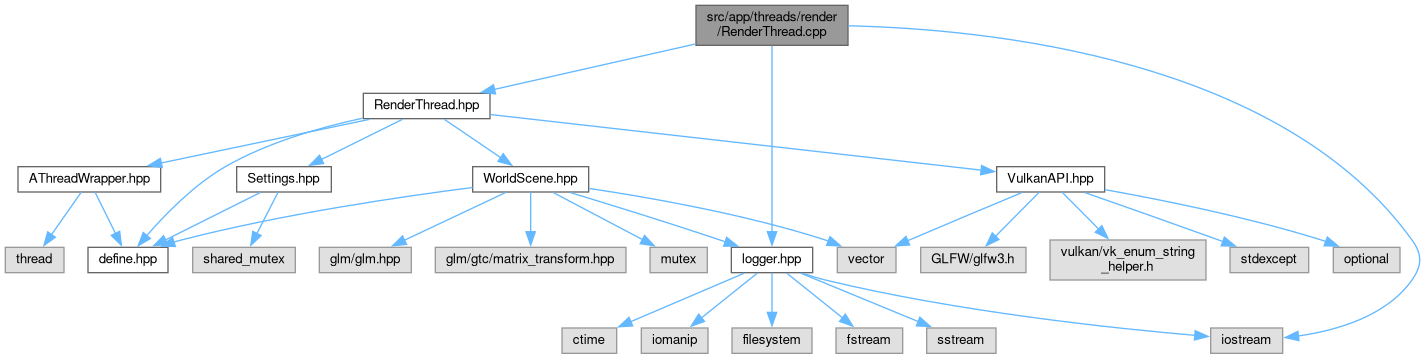
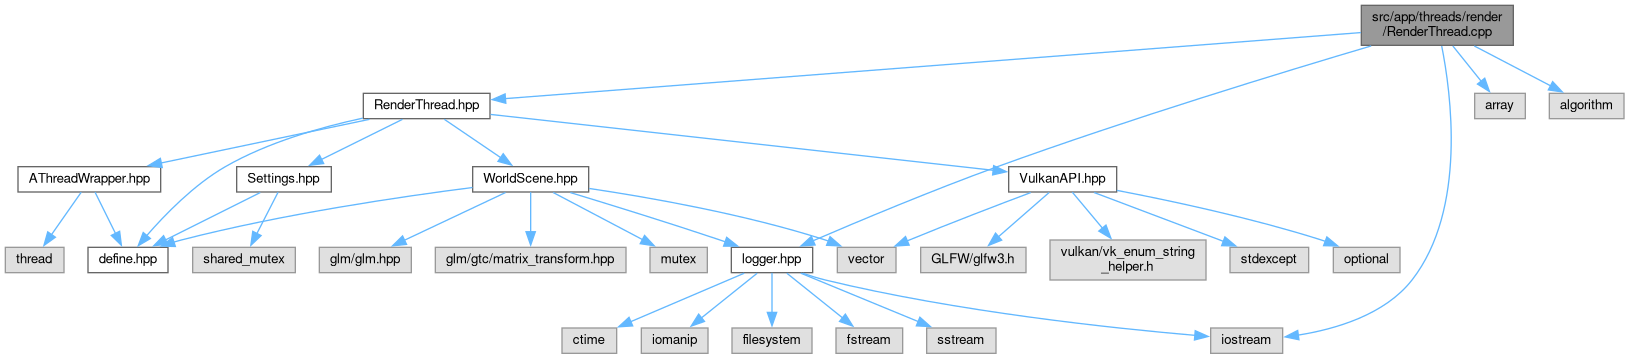
deploy: 920f2c3e76af47bdf64487e6b0525a4d961cf641

diff --git a/WorldScene_8hpp_source.html b/WorldScene_8hpp_source.html
@@ -243,20 +243,20 @@ $(document).ready(function(){initNavTree('WorldScene_8hpp_source.html',''); init
 <div class="line"><a id="l00219" name="l00219"></a><span class="lineno">  219</span>};</div>
 <div class="ttc" id="aclassWorldScene_1_1Camera_html"><div class="ttname"><a href="classWorldScene_1_1Camera.html">WorldScene::Camera</a></div><div class="ttdef"><b>Definition:</b> WorldScene.hpp:70</div></div>
 <div class="ttc" id="aclassWorldScene_1_1Camera_html_a125975d67492eaa19fbadeef068518fd"><div class="ttname"><a href="classWorldScene_1_1Camera.html#a125975d67492eaa19fbadeef068518fd">WorldScene::Camera::operator=</a></div><div class="ttdeci">Camera &amp; operator=(Camera &amp;&amp;camera)=delete</div></div>
-<div class="ttc" id="aclassWorldScene_1_1Camera_html_a5afa21c618a7a6445a5794a710095a05"><div class="ttname"><a href="classWorldScene_1_1Camera.html#a5afa21c618a7a6445a5794a710095a05">WorldScene::Camera::moveDirection</a></div><div class="ttdeci">void moveDirection(float x_offset, float y_offset)</div><div class="ttdoc">Move the camera rotation from the cursor movement.</div><div class="ttdef"><b>Definition:</b> WorldScene.cpp:75</div></div>
-<div class="ttc" id="aclassWorldScene_1_1Camera_html_a6f78c8251d703dcd1b4d9cbd81e112d9"><div class="ttname"><a href="classWorldScene_1_1Camera.html#a6f78c8251d703dcd1b4d9cbd81e112d9">WorldScene::Camera::getViewMatrix</a></div><div class="ttdeci">glm::mat4 getViewMatrix() const</div><div class="ttdoc">Get the view matrix of the camera.</div><div class="ttdef"><b>Definition:</b> WorldScene.cpp:37</div></div>
+<div class="ttc" id="aclassWorldScene_1_1Camera_html_a5afa21c618a7a6445a5794a710095a05"><div class="ttname"><a href="classWorldScene_1_1Camera.html#a5afa21c618a7a6445a5794a710095a05">WorldScene::Camera::moveDirection</a></div><div class="ttdeci">void moveDirection(float x_offset, float y_offset)</div><div class="ttdoc">Move the camera rotation from the cursor movement.</div><div class="ttdef"><b>Definition:</b> WorldScene.cpp:77</div></div>
+<div class="ttc" id="aclassWorldScene_1_1Camera_html_a6f78c8251d703dcd1b4d9cbd81e112d9"><div class="ttname"><a href="classWorldScene_1_1Camera.html#a6f78c8251d703dcd1b4d9cbd81e112d9">WorldScene::Camera::getViewMatrix</a></div><div class="ttdeci">glm::mat4 getViewMatrix() const</div><div class="ttdoc">Get the view matrix of the camera.</div><div class="ttdef"><b>Definition:</b> WorldScene.cpp:39</div></div>
 <div class="ttc" id="aclassWorldScene_1_1Camera_html_a72909fd1fbd89f38e9f37259b420b413"><div class="ttname"><a href="classWorldScene_1_1Camera.html#a72909fd1fbd89f38e9f37259b420b413">WorldScene::Camera::operator=</a></div><div class="ttdeci">Camera &amp; operator=(Camera &amp;camera)=delete</div></div>
-<div class="ttc" id="aclassWorldScene_1_1Camera_html_a746bdef18c9dc1e683337350a3f902b2"><div class="ttname"><a href="classWorldScene_1_1Camera.html#a746bdef18c9dc1e683337350a3f902b2">WorldScene::Camera::moveForward</a></div><div class="ttdeci">void moveForward(float distance)</div><div class="ttdoc">Move the camera forward/backward on the xz plane.</div><div class="ttdef"><b>Definition:</b> WorldScene.cpp:49</div></div>
+<div class="ttc" id="aclassWorldScene_1_1Camera_html_a746bdef18c9dc1e683337350a3f902b2"><div class="ttname"><a href="classWorldScene_1_1Camera.html#a746bdef18c9dc1e683337350a3f902b2">WorldScene::Camera::moveForward</a></div><div class="ttdeci">void moveForward(float distance)</div><div class="ttdoc">Move the camera forward/backward on the xz plane.</div><div class="ttdef"><b>Definition:</b> WorldScene.cpp:51</div></div>
 <div class="ttc" id="aclassWorldScene_1_1Camera_html_a78fab9922b38df0f9e06407d947022ec"><div class="ttname"><a href="classWorldScene_1_1Camera.html#a78fab9922b38df0f9e06407d947022ec">WorldScene::Camera::Camera</a></div><div class="ttdeci">Camera()=default</div></div>
-<div class="ttc" id="aclassWorldScene_1_1Camera_html_a79345bcbd88424510b9d2ff9deb7d6c1"><div class="ttname"><a href="classWorldScene_1_1Camera.html#a79345bcbd88424510b9d2ff9deb7d6c1">WorldScene::Camera::moveUp</a></div><div class="ttdeci">void moveUp(float distance)</div><div class="ttdoc">Move the camera up/down on the y axis.</div><div class="ttdef"><b>Definition:</b> WorldScene.cpp:61</div></div>
+<div class="ttc" id="aclassWorldScene_1_1Camera_html_a79345bcbd88424510b9d2ff9deb7d6c1"><div class="ttname"><a href="classWorldScene_1_1Camera.html#a79345bcbd88424510b9d2ff9deb7d6c1">WorldScene::Camera::moveUp</a></div><div class="ttdeci">void moveUp(float distance)</div><div class="ttdoc">Move the camera up/down on the y axis.</div><div class="ttdef"><b>Definition:</b> WorldScene.cpp:63</div></div>
 <div class="ttc" id="aclassWorldScene_1_1Camera_html_a89c12746f76363b6ffc0d29ba4f13147"><div class="ttname"><a href="classWorldScene_1_1Camera.html#a89c12746f76363b6ffc0d29ba4f13147">WorldScene::Camera::~Camera</a></div><div class="ttdeci">~Camera()=default</div></div>
 <div class="ttc" id="aclassWorldScene_1_1Camera_html_a94acdd6a7d45ba6c7d563d90bfc90bb2"><div class="ttname"><a href="classWorldScene_1_1Camera.html#a94acdd6a7d45ba6c7d563d90bfc90bb2">WorldScene::Camera::Camera</a></div><div class="ttdeci">Camera(Camera &amp;&amp;camera)=delete</div></div>
 <div class="ttc" id="aclassWorldScene_1_1Camera_html_aa234eb78a5165b05d6c754939e9d6d51"><div class="ttname"><a href="classWorldScene_1_1Camera.html#aa234eb78a5165b05d6c754939e9d6d51">WorldScene::Camera::Camera</a></div><div class="ttdeci">Camera(Camera &amp;camera)=delete</div></div>
-<div class="ttc" id="aclassWorldScene_1_1Camera_html_ab88c46b90986ea4c977fee8916c651f7"><div class="ttname"><a href="classWorldScene_1_1Camera.html#ab88c46b90986ea4c977fee8916c651f7">WorldScene::Camera::moveRight</a></div><div class="ttdeci">void moveRight(float distance)</div><div class="ttdoc">Move the camera right/left on the xz plane.</div><div class="ttdef"><b>Definition:</b> WorldScene.cpp:55</div></div>
-<div class="ttc" id="aclassWorldScene_1_1Camera_html_abbcb4a82584f2e443144ec2a99f319fc"><div class="ttname"><a href="classWorldScene_1_1Camera.html#abbcb4a82584f2e443144ec2a99f319fc">WorldScene::Camera::setPosition</a></div><div class="ttdeci">void setPosition(const glm::vec3 &amp;position)</div><div class="ttdoc">Set the position of the camera.</div><div class="ttdef"><b>Definition:</b> WorldScene.cpp:84</div></div>
-<div class="ttc" id="aclassWorldScene_1_1Camera_html_ae42fd7538d38ad77fac78d260427a8ff"><div class="ttname"><a href="classWorldScene_1_1Camera.html#ae42fd7538d38ad77fac78d260427a8ff">WorldScene::Camera::getProjectionMatrix</a></div><div class="ttdeci">glm::mat4 getProjectionMatrix(float aspect_ratio) const</div><div class="ttdoc">Get the projection matrix of the camera.</div><div class="ttdef"><b>Definition:</b> WorldScene.cpp:43</div></div>
-<div class="ttc" id="aclassWorldScene_1_1Camera_html_ae98c060b2fbbbb2c8f106878d6c8f7a0"><div class="ttname"><a href="classWorldScene_1_1Camera.html#ae98c060b2fbbbb2c8f106878d6c8f7a0">WorldScene::Camera::movePosition</a></div><div class="ttdeci">void movePosition(const glm::vec3 &amp;move)</div><div class="ttdoc">Move the camera with a vector. x = right, y = up, z = forward.</div><div class="ttdef"><b>Definition:</b> WorldScene.cpp:67</div></div>
-<div class="ttc" id="aclassWorldScene_1_1Camera_html_aea31563228100aab4ab8da71df2fb511"><div class="ttname"><a href="classWorldScene_1_1Camera.html#aea31563228100aab4ab8da71df2fb511">WorldScene::Camera::lookAt</a></div><div class="ttdeci">void lookAt(const glm::vec3 &amp;target)</div><div class="ttdoc">Set the pitch and yaw of the camera to look at a target.</div><div class="ttdef"><b>Definition:</b> WorldScene.cpp:90</div></div>
+<div class="ttc" id="aclassWorldScene_1_1Camera_html_ab88c46b90986ea4c977fee8916c651f7"><div class="ttname"><a href="classWorldScene_1_1Camera.html#ab88c46b90986ea4c977fee8916c651f7">WorldScene::Camera::moveRight</a></div><div class="ttdeci">void moveRight(float distance)</div><div class="ttdoc">Move the camera right/left on the xz plane.</div><div class="ttdef"><b>Definition:</b> WorldScene.cpp:57</div></div>
+<div class="ttc" id="aclassWorldScene_1_1Camera_html_abbcb4a82584f2e443144ec2a99f319fc"><div class="ttname"><a href="classWorldScene_1_1Camera.html#abbcb4a82584f2e443144ec2a99f319fc">WorldScene::Camera::setPosition</a></div><div class="ttdeci">void setPosition(const glm::vec3 &amp;position)</div><div class="ttdoc">Set the position of the camera.</div><div class="ttdef"><b>Definition:</b> WorldScene.cpp:86</div></div>
+<div class="ttc" id="aclassWorldScene_1_1Camera_html_ae42fd7538d38ad77fac78d260427a8ff"><div class="ttname"><a href="classWorldScene_1_1Camera.html#ae42fd7538d38ad77fac78d260427a8ff">WorldScene::Camera::getProjectionMatrix</a></div><div class="ttdeci">glm::mat4 getProjectionMatrix(float aspect_ratio) const</div><div class="ttdoc">Get the projection matrix of the camera.</div><div class="ttdef"><b>Definition:</b> WorldScene.cpp:45</div></div>
+<div class="ttc" id="aclassWorldScene_1_1Camera_html_ae98c060b2fbbbb2c8f106878d6c8f7a0"><div class="ttname"><a href="classWorldScene_1_1Camera.html#ae98c060b2fbbbb2c8f106878d6c8f7a0">WorldScene::Camera::movePosition</a></div><div class="ttdeci">void movePosition(const glm::vec3 &amp;move)</div><div class="ttdoc">Move the camera with a vector. x = right, y = up, z = forward.</div><div class="ttdef"><b>Definition:</b> WorldScene.cpp:69</div></div>
+<div class="ttc" id="aclassWorldScene_1_1Camera_html_aea31563228100aab4ab8da71df2fb511"><div class="ttname"><a href="classWorldScene_1_1Camera.html#aea31563228100aab4ab8da71df2fb511">WorldScene::Camera::lookAt</a></div><div class="ttdeci">void lookAt(const glm::vec3 &amp;target)</div><div class="ttdoc">Set the pitch and yaw of the camera to look at a target.</div><div class="ttdef"><b>Definition:</b> WorldScene.cpp:92</div></div>
 <div class="ttc" id="aclassWorldScene_1_1Transform_html"><div class="ttname"><a href="classWorldScene_1_1Transform.html">WorldScene::Transform</a></div><div class="ttdef"><b>Definition:</b> WorldScene.hpp:24</div></div>
 <div class="ttc" id="aclassWorldScene_1_1Transform_html_a25c42b8296eb24b147b51442a68671ed"><div class="ttname"><a href="classWorldScene_1_1Transform.html#a25c42b8296eb24b147b51442a68671ed">WorldScene::Transform::Transform</a></div><div class="ttdeci">Transform(const glm::vec3 &amp;position=glm::vec3(0.0f, 0.0f, 0.0f), const glm::vec3 &amp;rotation=glm::vec3(0.0f, 0.0f, 0.0f), const glm::vec3 &amp;scale=glm::vec3(1.0f, 1.0f, 1.0f))</div><div class="ttdef"><b>Definition:</b> WorldScene.hpp:26</div></div>
 <div class="ttc" id="aclassWorldScene_1_1Transform_html_a521c9e222875de6fffeae597ecafafc3"><div class="ttname"><a href="classWorldScene_1_1Transform.html#a521c9e222875de6fffeae597ecafafc3">WorldScene::Transform::scale</a></div><div class="ttdeci">const glm::vec3 &amp; scale() const</div><div class="ttdef"><b>Definition:</b> WorldScene.hpp:42</div></div>
@@ -267,15 +267,15 @@ $(document).ready(function(){initNavTree('WorldScene_8hpp_source.html',''); init
 <div class="ttc" id="aclassWorldScene_1_1Transform_html_a98b67cb3eea5e74ac801c2daecad4d6e"><div class="ttname"><a href="classWorldScene_1_1Transform.html#a98b67cb3eea5e74ac801c2daecad4d6e">WorldScene::Transform::model</a></div><div class="ttdeci">glm::mat4 model() const</div><div class="ttdef"><b>Definition:</b> WorldScene.hpp:44</div></div>
 <div class="ttc" id="aclassWorldScene_1_1Transform_html_ab27580e8cf5b61590e405a38ea84396b"><div class="ttname"><a href="classWorldScene_1_1Transform.html#ab27580e8cf5b61590e405a38ea84396b">WorldScene::Transform::scale</a></div><div class="ttdeci">glm::vec3 &amp; scale()</div><div class="ttdef"><b>Definition:</b> WorldScene.hpp:41</div></div>
 <div class="ttc" id="aclassWorldScene_html"><div class="ttname"><a href="classWorldScene.html">WorldScene</a></div><div class="ttdoc">Class to hold the world scene. The instance of this class will be accessed by multiple threads so it ...</div><div class="ttdef"><b>Definition:</b> WorldScene.hpp:19</div></div>
-<div class="ttc" id="aclassWorldScene_html_a31291b76be40ac58d2a7fbebdf7963e8"><div class="ttname"><a href="classWorldScene.html#a31291b76be40ac58d2a7fbebdf7963e8">WorldScene::getMeshRenderData</a></div><div class="ttdeci">std::vector&lt; MeshRenderData &gt; getMeshRenderData() const</div><div class="ttdoc">Function to get the mesh data.</div><div class="ttdef"><b>Definition:</b> WorldScene.cpp:29</div></div>
+<div class="ttc" id="aclassWorldScene_html_a31291b76be40ac58d2a7fbebdf7963e8"><div class="ttname"><a href="classWorldScene.html#a31291b76be40ac58d2a7fbebdf7963e8">WorldScene::getMeshRenderData</a></div><div class="ttdeci">std::vector&lt; MeshRenderData &gt; getMeshRenderData() const</div><div class="ttdoc">Function to get the mesh data.</div><div class="ttdef"><b>Definition:</b> WorldScene.cpp:31</div></div>
 <div class="ttc" id="aclassWorldScene_html_a31e767d0a4e116e712a3ff9432b3b59b"><div class="ttname"><a href="classWorldScene.html#a31e767d0a4e116e712a3ff9432b3b59b">WorldScene::WorldScene</a></div><div class="ttdeci">WorldScene(WorldScene &amp;scene)=delete</div></div>
 <div class="ttc" id="aclassWorldScene_html_a5066dc9503636b3dce03f2e1a0342c0e"><div class="ttname"><a href="classWorldScene.html#a5066dc9503636b3dce03f2e1a0342c0e">WorldScene::WorldScene</a></div><div class="ttdeci">WorldScene(WorldScene &amp;&amp;scene)=delete</div></div>
 <div class="ttc" id="aclassWorldScene_html_a71505cd83b2a2e9735a71cee2e353de9"><div class="ttname"><a href="classWorldScene.html#a71505cd83b2a2e9735a71cee2e353de9">WorldScene::camera</a></div><div class="ttdeci">Camera &amp; camera()</div><div class="ttdoc">Function to get the camera.</div><div class="ttdef"><b>Definition:</b> WorldScene.hpp:203</div></div>
-<div class="ttc" id="aclassWorldScene_html_a86c5a4b83213d28ce5c62eba9d35da64"><div class="ttname"><a href="classWorldScene.html#a86c5a4b83213d28ce5c62eba9d35da64">WorldScene::WorldScene</a></div><div class="ttdeci">WorldScene()</div><div class="ttdoc">Construct a new WorldScene object.</div><div class="ttdef"><b>Definition:</b> WorldScene.cpp:4</div></div>
-<div class="ttc" id="aclassWorldScene_html_a8bcfa949f6e093c9794ace6f199742c0"><div class="ttname"><a href="classWorldScene.html#a8bcfa949f6e093c9794ace6f199742c0">WorldScene::removeMesh</a></div><div class="ttdeci">void removeMesh(uint64_t meshID)</div><div class="ttdoc">Function to remove a mesh from the scene.</div><div class="ttdef"><b>Definition:</b> WorldScene.cpp:21</div></div>
-<div class="ttc" id="aclassWorldScene_html_a96919a2cba5b6b6e544cc9b749e13ac8"><div class="ttname"><a href="classWorldScene.html#a96919a2cba5b6b6e544cc9b749e13ac8">WorldScene::~WorldScene</a></div><div class="ttdeci">~WorldScene()</div><div class="ttdoc">Destroy the WorldScene object.</div><div class="ttdef"><b>Definition:</b> WorldScene.cpp:8</div></div>
+<div class="ttc" id="aclassWorldScene_html_a86c5a4b83213d28ce5c62eba9d35da64"><div class="ttname"><a href="classWorldScene.html#a86c5a4b83213d28ce5c62eba9d35da64">WorldScene::WorldScene</a></div><div class="ttdeci">WorldScene()</div><div class="ttdoc">Construct a new WorldScene object.</div><div class="ttdef"><b>Definition:</b> WorldScene.cpp:6</div></div>
+<div class="ttc" id="aclassWorldScene_html_a8bcfa949f6e093c9794ace6f199742c0"><div class="ttname"><a href="classWorldScene.html#a8bcfa949f6e093c9794ace6f199742c0">WorldScene::removeMesh</a></div><div class="ttdeci">void removeMesh(uint64_t meshID)</div><div class="ttdoc">Function to remove a mesh from the scene.</div><div class="ttdef"><b>Definition:</b> WorldScene.cpp:23</div></div>
+<div class="ttc" id="aclassWorldScene_html_a96919a2cba5b6b6e544cc9b749e13ac8"><div class="ttname"><a href="classWorldScene.html#a96919a2cba5b6b6e544cc9b749e13ac8">WorldScene::~WorldScene</a></div><div class="ttdeci">~WorldScene()</div><div class="ttdoc">Destroy the WorldScene object.</div><div class="ttdef"><b>Definition:</b> WorldScene.cpp:10</div></div>
 <div class="ttc" id="aclassWorldScene_html_ab1ef2cb8d38726a515ec3042619b0ab5"><div class="ttname"><a href="classWorldScene.html#ab1ef2cb8d38726a515ec3042619b0ab5">WorldScene::operator=</a></div><div class="ttdeci">WorldScene &amp; operator=(WorldScene &amp;&amp;scene)=delete</div></div>
-<div class="ttc" id="aclassWorldScene_html_abb2f5adfccf441133d0109895adb44a0"><div class="ttname"><a href="classWorldScene.html#abb2f5adfccf441133d0109895adb44a0">WorldScene::addMeshData</a></div><div class="ttdeci">void addMeshData(uint64_t meshID, const Transform &amp;transform)</div><div class="ttdoc">Function to add a mesh to the scene.</div><div class="ttdef"><b>Definition:</b> WorldScene.cpp:12</div></div>
+<div class="ttc" id="aclassWorldScene_html_abb2f5adfccf441133d0109895adb44a0"><div class="ttname"><a href="classWorldScene.html#abb2f5adfccf441133d0109895adb44a0">WorldScene::addMeshData</a></div><div class="ttdeci">void addMeshData(uint64_t meshID, const Transform &amp;transform)</div><div class="ttdoc">Function to add a mesh to the scene.</div><div class="ttdef"><b>Definition:</b> WorldScene.cpp:14</div></div>
 <div class="ttc" id="aclassWorldScene_html_ac514b789cf4d4195c3b0f0852a1a2b7b"><div class="ttname"><a href="classWorldScene.html#ac514b789cf4d4195c3b0f0852a1a2b7b">WorldScene::operator=</a></div><div class="ttdeci">WorldScene &amp; operator=(WorldScene &amp;scene)=delete</div></div>
 <div class="ttc" id="aclassWorldScene_html_ad5100ff8f3edb4b7e9cbf65240169f05"><div class="ttname"><a href="classWorldScene.html#ad5100ff8f3edb4b7e9cbf65240169f05">WorldScene::camera</a></div><div class="ttdeci">const Camera &amp; camera() const</div><div class="ttdoc">Function const to get the camera.</div><div class="ttdef"><b>Definition:</b> WorldScene.hpp:211</div></div>
 <div class="ttc" id="adefine_8hpp_html"><div class="ttname"><a href="define_8hpp.html">define.hpp</a></div></div>

diff --git a/VulkanAPI_8hpp_source.html b/VulkanAPI_8hpp_source.html
@@ -331,8 +331,8 @@ $(document).ready(function(){initNavTree('VulkanAPI_8hpp_source.html',''); initR
 <div class="ttc" id="aclassVulkanAPI_html_a3a845af151ddc322c31030ae33a7725f"><div class="ttname"><a href="classVulkanAPI.html#a3a845af151ddc322c31030ae33a7725f">VulkanAPI::max_frames_in_flight</a></div><div class="ttdeci">const int max_frames_in_flight</div><div class="ttdef"><b>Definition:</b> VulkanAPI.hpp:119</div></div>
 <div class="ttc" id="aclassVulkanAPI_html_a3d2e2ba32d12d350853d6de00770eab9"><div class="ttname"><a href="classVulkanAPI.html#a3d2e2ba32d12d350853d6de00770eab9">VulkanAPI::graphics_queue</a></div><div class="ttdeci">VkQueue graphics_queue</div><div class="ttdef"><b>Definition:</b> VulkanAPI.hpp:86</div></div>
 <div class="ttc" id="aclassVulkanAPI_html_a3f4eb2dfd0c916f2c2d5cd32a11d1805"><div class="ttname"><a href="classVulkanAPI.html#a3f4eb2dfd0c916f2c2d5cd32a11d1805">VulkanAPI::queue_family_indices</a></div><div class="ttdeci">QueueFamilyIndices queue_family_indices</div><div class="ttdef"><b>Definition:</b> VulkanAPI.hpp:88</div></div>
-<div class="ttc" id="aclassVulkanAPI_html_a415e09717d3d71f6cd288b926b8797bd"><div class="ttname"><a href="classVulkanAPI.html#a415e09717d3d71f6cd288b926b8797bd">VulkanAPI::clearPixels</a></div><div class="ttdeci">void clearPixels()</div><div class="ttdef"><b>Definition:</b> VulkanAPI.cpp:882</div></div>
-<div class="ttc" id="aclassVulkanAPI_html_a48f6b428d99ea240a6ebdc1ad4dba0cd"><div class="ttname"><a href="classVulkanAPI.html#a48f6b428d99ea240a6ebdc1ad4dba0cd">VulkanAPI::transitionImageLayout</a></div><div class="ttdeci">void transitionImageLayout(VkImage image, VkImageLayout oldLayout, VkImageLayout newLayout, VkImageAspectFlags aspectMask, uint32_t mipLevels, VkAccessFlags srcAccessMask, VkAccessFlags dstAccessMask, VkPipelineStageFlags srcStageMask, VkPipelineStageFlags dstStageMask)</div><div class="ttdef"><b>Definition:</b> VulkanAPI.cpp:995</div></div>
+<div class="ttc" id="aclassVulkanAPI_html_a415e09717d3d71f6cd288b926b8797bd"><div class="ttname"><a href="classVulkanAPI.html#a415e09717d3d71f6cd288b926b8797bd">VulkanAPI::clearPixels</a></div><div class="ttdeci">void clearPixels()</div><div class="ttdef"><b>Definition:</b> VulkanAPI.cpp:883</div></div>
+<div class="ttc" id="aclassVulkanAPI_html_a48f6b428d99ea240a6ebdc1ad4dba0cd"><div class="ttname"><a href="classVulkanAPI.html#a48f6b428d99ea240a6ebdc1ad4dba0cd">VulkanAPI::transitionImageLayout</a></div><div class="ttdeci">void transitionImageLayout(VkImage image, VkImageLayout oldLayout, VkImageLayout newLayout, VkImageAspectFlags aspectMask, uint32_t mipLevels, VkAccessFlags srcAccessMask, VkAccessFlags dstAccessMask, VkPipelineStageFlags srcStageMask, VkPipelineStageFlags dstStageMask)</div><div class="ttdef"><b>Definition:</b> VulkanAPI.cpp:996</div></div>
 <div class="ttc" id="aclassVulkanAPI_html_a493c029a5d6e84944b10aba3e127f8d2"><div class="ttname"><a href="classVulkanAPI.html#a493c029a5d6e84944b10aba3e127f8d2">VulkanAPI::swap_chain_extent</a></div><div class="ttdeci">VkExtent2D swap_chain_extent</div><div class="ttdef"><b>Definition:</b> VulkanAPI.hpp:93</div></div>
 <div class="ttc" id="aclassVulkanAPI_html_a4d925a6136031c943dcf6817afdd5972"><div class="ttname"><a href="classVulkanAPI.html#a4d925a6136031c943dcf6817afdd5972">VulkanAPI::swap_chain_image_format</a></div><div class="ttdeci">VkFormat swap_chain_image_format</div><div class="ttdef"><b>Definition:</b> VulkanAPI.hpp:92</div></div>
 <div class="ttc" id="aclassVulkanAPI_html_a512711a2bf5f70765279aca5f1e6c5dd"><div class="ttname"><a href="classVulkanAPI.html#a512711a2bf5f70765279aca5f1e6c5dd">VulkanAPI::command_pool</a></div><div class="ttdeci">VkCommandPool command_pool</div><div class="ttdef"><b>Definition:</b> VulkanAPI.hpp:98</div></div>
@@ -351,16 +351,16 @@ $(document).ready(function(){initNavTree('VulkanAPI_8hpp_source.html',''); initR
 <div class="ttc" id="aclassVulkanAPI_html_a9143e4841f51111ccfbb5fe86db9d17e"><div class="ttname"><a href="classVulkanAPI.html#a9143e4841f51111ccfbb5fe86db9d17e">VulkanAPI::height</a></div><div class="ttdeci">uint32_t height() const</div><div class="ttdef"><b>Definition:</b> VulkanAPI.hpp:72</div></div>
 <div class="ttc" id="aclassVulkanAPI_html_aa0446488c89a7a21f749f5984272385e"><div class="ttname"><a href="classVulkanAPI.html#aa0446488c89a7a21f749f5984272385e">VulkanAPI::pipeline_layout</a></div><div class="ttdeci">VkPipelineLayout pipeline_layout</div><div class="ttdef"><b>Definition:</b> VulkanAPI.hpp:95</div></div>
 <div class="ttc" id="aclassVulkanAPI_html_aaeca4e5455f3982bac572f63af925855"><div class="ttname"><a href="classVulkanAPI.html#aaeca4e5455f3982bac572f63af925855">VulkanAPI::operator=</a></div><div class="ttdeci">VulkanAPI &amp; operator=(VulkanAPI &amp;&amp;)=delete</div></div>
-<div class="ttc" id="aclassVulkanAPI_html_ab8984029ac369dcc8d76ac09decf8250"><div class="ttname"><a href="classVulkanAPI.html#ab8984029ac369dcc8d76ac09decf8250">VulkanAPI::putPixel</a></div><div class="ttdeci">void putPixel(uint32_t x, uint32_t y, uint8_t r, uint8_t g, uint8_t b, uint8_t a=255)</div><div class="ttdef"><b>Definition:</b> VulkanAPI.cpp:887</div></div>
+<div class="ttc" id="aclassVulkanAPI_html_ab8984029ac369dcc8d76ac09decf8250"><div class="ttname"><a href="classVulkanAPI.html#ab8984029ac369dcc8d76ac09decf8250">VulkanAPI::putPixel</a></div><div class="ttdeci">void putPixel(uint32_t x, uint32_t y, uint8_t r, uint8_t g, uint8_t b, uint8_t a=255)</div><div class="ttdef"><b>Definition:</b> VulkanAPI.cpp:888</div></div>
 <div class="ttc" id="aclassVulkanAPI_html_ac53aef29bbc7afd5cef325d4d608f669"><div class="ttname"><a href="classVulkanAPI.html#ac53aef29bbc7afd5cef325d4d608f669">VulkanAPI::device</a></div><div class="ttdeci">VkDevice device</div><div class="ttdef"><b>Definition:</b> VulkanAPI.hpp:85</div></div>
-<div class="ttc" id="aclassVulkanAPI_html_acb1a97c9af39c7527966e3f8eb5f7581"><div class="ttname"><a href="classVulkanAPI.html#acb1a97c9af39c7527966e3f8eb5f7581">VulkanAPI::recreateSwapChain</a></div><div class="ttdeci">void recreateSwapChain(GLFWwindow *window)</div><div class="ttdef"><b>Definition:</b> VulkanAPI.cpp:489</div></div>
+<div class="ttc" id="aclassVulkanAPI_html_acb1a97c9af39c7527966e3f8eb5f7581"><div class="ttname"><a href="classVulkanAPI.html#acb1a97c9af39c7527966e3f8eb5f7581">VulkanAPI::recreateSwapChain</a></div><div class="ttdeci">void recreateSwapChain(GLFWwindow *window)</div><div class="ttdef"><b>Definition:</b> VulkanAPI.cpp:490</div></div>
 <div class="ttc" id="aclassVulkanAPI_html_acbc18157e133b2d4ad681f060d44c742"><div class="ttname"><a href="classVulkanAPI.html#acbc18157e133b2d4ad681f060d44c742">VulkanAPI::instance</a></div><div class="ttdeci">VkInstance instance</div><div class="ttdef"><b>Definition:</b> VulkanAPI.hpp:79</div></div>
 <div class="ttc" id="aclassVulkanAPI_html_acd95a2f7af31d3ccba7de8553aeed384"><div class="ttname"><a href="classVulkanAPI.html#acd95a2f7af31d3ccba7de8553aeed384">VulkanAPI::present_queue</a></div><div class="ttdeci">VkQueue present_queue</div><div class="ttdef"><b>Definition:</b> VulkanAPI.hpp:87</div></div>
 <div class="ttc" id="aclassVulkanAPI_html_ad6577a4ae85f6aa01f3eb4b6228ecc72"><div class="ttname"><a href="classVulkanAPI.html#ad6577a4ae85f6aa01f3eb4b6228ecc72">VulkanAPI::color_attachement_extent</a></div><div class="ttdeci">VkExtent2D color_attachement_extent</div><div class="ttdef"><b>Definition:</b> VulkanAPI.hpp:111</div></div>
 <div class="ttc" id="aclassVulkanAPI_html_aded6afbe797d9e490d44f56c818baa90"><div class="ttname"><a href="classVulkanAPI.html#aded6afbe797d9e490d44f56c818baa90">VulkanAPI::image_available_semaphores</a></div><div class="ttdeci">std::vector&lt; VkSemaphore &gt; image_available_semaphores</div><div class="ttdef"><b>Definition:</b> VulkanAPI.hpp:102</div></div>
 <div class="ttc" id="aclassVulkanAPI_html_aef64369b7f35961d23ea3a9fa6255b2a"><div class="ttname"><a href="classVulkanAPI.html#aef64369b7f35961d23ea3a9fa6255b2a">VulkanAPI::draw_image</a></div><div class="ttdeci">VkImage draw_image</div><div class="ttdef"><b>Definition:</b> VulkanAPI.hpp:113</div></div>
 <div class="ttc" id="aclassVulkanAPI_html_af0178da68566ea2136a91746e686efdf"><div class="ttname"><a href="classVulkanAPI.html#af0178da68566ea2136a91746e686efdf">VulkanAPI::VulkanAPI</a></div><div class="ttdeci">VulkanAPI(VulkanAPI &amp;&amp;)=delete</div></div>
-<div class="ttc" id="aclassVulkanAPI_html_af0fc9d116584aa25c04587c6ac9b43cc"><div class="ttname"><a href="classVulkanAPI.html#af0fc9d116584aa25c04587c6ac9b43cc">VulkanAPI::~VulkanAPI</a></div><div class="ttdeci">~VulkanAPI()</div><div class="ttdef"><b>Definition:</b> VulkanAPI.cpp:28</div></div>
+<div class="ttc" id="aclassVulkanAPI_html_af0fc9d116584aa25c04587c6ac9b43cc"><div class="ttname"><a href="classVulkanAPI.html#af0fc9d116584aa25c04587c6ac9b43cc">VulkanAPI::~VulkanAPI</a></div><div class="ttdeci">~VulkanAPI()</div><div class="ttdef"><b>Definition:</b> VulkanAPI.cpp:29</div></div>
 <div class="ttc" id="aclassVulkanAPI_html_af68a817c10f287c3dee239ac9b4416f5"><div class="ttname"><a href="classVulkanAPI.html#af68a817c10f287c3dee239ac9b4416f5">VulkanAPI::color_attachement_memory</a></div><div class="ttdeci">VkDeviceMemory color_attachement_memory</div><div class="ttdef"><b>Definition:</b> VulkanAPI.hpp:108</div></div>
 <div class="ttc" id="aclassVulkanAPI_html_afe362f2320ed6115d2eb627efed9d530"><div class="ttname"><a href="classVulkanAPI.html#afe362f2320ed6115d2eb627efed9d530">VulkanAPI::surface</a></div><div class="ttdeci">VkSurfaceKHR surface</div><div class="ttdef"><b>Definition:</b> VulkanAPI.hpp:83</div></div>
 <div class="ttc" id="aclassVulkanAPI_html_afee8894b5a16b5ee9f2718b30b5d4d63"><div class="ttname"><a href="classVulkanAPI.html#afee8894b5a16b5ee9f2718b30b5d4d63">VulkanAPI::draw_image_mapped_memory</a></div><div class="ttdeci">void * draw_image_mapped_memory</div><div class="ttdef"><b>Definition:</b> VulkanAPI.hpp:115</div></div>

diff --git a/RenderThread_8hpp_source.html b/RenderThread_8hpp_source.html
@@ -161,7 +161,7 @@ $(document).ready(function(){initNavTree('RenderThread_8hpp_source.html',''); in
 <div class="ttc" id="aclassRenderThread_html_a735f6f69afad2704b0119683ea474a96"><div class="ttname"><a href="classRenderThread.html#a735f6f69afad2704b0119683ea474a96">RenderThread::operator=</a></div><div class="ttdeci">RenderThread &amp; operator=(RenderThread &amp;renderer)=delete</div></div>
 <div class="ttc" id="aclassRenderThread_html_a9b8dfb3f2d80db4e6c4d9009367e8cb1"><div class="ttname"><a href="classRenderThread.html#a9b8dfb3f2d80db4e6c4d9009367e8cb1">RenderThread::RenderThread</a></div><div class="ttdeci">RenderThread(RenderThread &amp;renderer)=delete</div></div>
 <div class="ttc" id="aclassRenderThread_html_aad762f76aa79f3c247731133aeca68b3"><div class="ttname"><a href="classRenderThread.html#aad762f76aa79f3c247731133aeca68b3">RenderThread::operator=</a></div><div class="ttdeci">RenderThread &amp; operator=(RenderThread &amp;&amp;renderer)=delete</div></div>
-<div class="ttc" id="aclassRenderThread_html_ac9a968ad63349a9eb1109d615406afd4"><div class="ttname"><a href="classRenderThread.html#ac9a968ad63349a9eb1109d615406afd4">RenderThread::~RenderThread</a></div><div class="ttdeci">~RenderThread()</div><div class="ttdoc">Destroy the RenderThread object.</div><div class="ttdef"><b>Definition:</b> RenderThread.cpp:18</div></div>
+<div class="ttc" id="aclassRenderThread_html_ac9a968ad63349a9eb1109d615406afd4"><div class="ttname"><a href="classRenderThread.html#ac9a968ad63349a9eb1109d615406afd4">RenderThread::~RenderThread</a></div><div class="ttdeci">~RenderThread()</div><div class="ttdoc">Destroy the RenderThread object.</div><div class="ttdef"><b>Definition:</b> RenderThread.cpp:22</div></div>
 <div class="ttc" id="aclassSettings_html"><div class="ttname"><a href="classSettings.html">Settings</a></div><div class="ttdoc">Class to hold the settings of the application.</div><div class="ttdef"><b>Definition:</b> Settings.hpp:12</div></div>
 <div class="ttc" id="aclassVulkanAPI_html"><div class="ttname"><a href="classVulkanAPI.html">VulkanAPI</a></div><div class="ttdef"><b>Definition:</b> VulkanAPI.hpp:45</div></div>
 <div class="ttc" id="aclassWorldScene_html"><div class="ttname"><a href="classWorldScene.html">WorldScene</a></div><div class="ttdoc">Class to hold the world scene. The instance of this class will be accessed by multiple threads so it ...</div><div class="ttdef"><b>Definition:</b> WorldScene.hpp:19</div></div>

diff --git a/UpdateThread_8hpp_source.html b/UpdateThread_8hpp_source.html
@@ -176,7 +176,7 @@ $(document).ready(function(){initNavTree('UpdateThread_8hpp_source.html',''); in
 <div class="ttc" id="aclassUpdateThread_html"><div class="ttname"><a href="classUpdateThread.html">UpdateThread</a></div><div class="ttdef"><b>Definition:</b> UpdateThread.hpp:12</div></div>
 <div class="ttc" id="aclassUpdateThread_html_a5379199617c6f252e5d850755f887b1f"><div class="ttname"><a href="classUpdateThread.html#a5379199617c6f252e5d850755f887b1f">UpdateThread::operator=</a></div><div class="ttdeci">UpdateThread &amp; operator=(UpdateThread &amp;other)=delete</div></div>
 <div class="ttc" id="aclassUpdateThread_html_a67633683c42a680171e9de4cb55e673b"><div class="ttname"><a href="classUpdateThread.html#a67633683c42a680171e9de4cb55e673b">UpdateThread::UpdateThread</a></div><div class="ttdeci">UpdateThread(UpdateThread &amp;&amp;other)=delete</div></div>
-<div class="ttc" id="aclassUpdateThread_html_a6b0329b5ce1c37b523ca25276d180cbb"><div class="ttname"><a href="classUpdateThread.html#a6b0329b5ce1c37b523ca25276d180cbb">UpdateThread::~UpdateThread</a></div><div class="ttdeci">~UpdateThread()</div><div class="ttdef"><b>Definition:</b> UpdateThread.cpp:19</div></div>
+<div class="ttc" id="aclassUpdateThread_html_a6b0329b5ce1c37b523ca25276d180cbb"><div class="ttname"><a href="classUpdateThread.html#a6b0329b5ce1c37b523ca25276d180cbb">UpdateThread::~UpdateThread</a></div><div class="ttdeci">~UpdateThread()</div><div class="ttdef"><b>Definition:</b> UpdateThread.cpp:20</div></div>
 <div class="ttc" id="aclassUpdateThread_html_abb79f362ecbec1a4c878739bafe974de"><div class="ttname"><a href="classUpdateThread.html#abb79f362ecbec1a4c878739bafe974de">UpdateThread::operator=</a></div><div class="ttdeci">UpdateThread &amp; operator=(UpdateThread &amp;&amp;other)=delete</div></div>
 <div class="ttc" id="aclassUpdateThread_html_ac4c818b0e4646770c22f3f095b251517"><div class="ttname"><a href="classUpdateThread.html#ac4c818b0e4646770c22f3f095b251517">UpdateThread::UpdateThread</a></div><div class="ttdeci">UpdateThread(UpdateThread &amp;other)=delete</div></div>
 <div class="ttc" id="aclassWindow_html"><div class="ttname"><a href="classWindow.html">Window</a></div><div class="ttdef"><b>Definition:</b> window.hpp:11</div></div>

diff --git a/RenderThread_8cpp.html b/RenderThread_8cpp.html
@@ -111,20 +111,24 @@ $(document).ready(function(){initNavTree('RenderThread_8cpp.html',''); initResiz
 <div class="textblock"><code>#include &quot;<a class="el" href="RenderThread_8hpp_source.html">RenderThread.hpp</a>&quot;</code><br />
 <code>#include &quot;<a class="el" href="logger_8hpp_source.html">logger.hpp</a>&quot;</code><br />
 <code>#include &lt;iostream&gt;</code><br />
+<code>#include &lt;array&gt;</code><br />
+<code>#include &lt;algorithm&gt;</code><br />
 </div><div class="textblock"><div class="dynheader">
 Include dependency graph for RenderThread.cpp:</div>
 <div class="dyncontent">
 <div class="center"><img src="RenderThread_8cpp__incl.png" border="0" usemap="#asrc_2app_2threads_2render_2RenderThread_8cpp" alt=""/></div>
 <map name="asrc_2app_2threads_2render_2RenderThread_8cpp" id="asrc_2app_2threads_2render_2RenderThread_8cpp">
-<area shape="rect" title=" " alt="" coords="696,5,848,45"/>
+<area shape="rect" title=" " alt="" coords="1361,5,1513,45"/>
 <area shape="rect" href="RenderThread_8hpp.html" title=" " alt="" coords="363,93,490,119"/>
 <area shape="rect" href="logger_8hpp.html" title=" " alt="" coords="731,247,813,273"/>
 <area shape="rect" title=" " alt="" coords="1211,328,1283,353"/>
+<area shape="rect" title=" " alt="" coords="1475,93,1525,119"/>
+<area shape="rect" title=" " alt="" coords="1549,93,1624,119"/>
 <area shape="rect" href="define_8hpp.html" title=" " alt="" coords="88,247,168,273"/>
 <area shape="rect" href="AThreadWrapper_8hpp.html" title=" " alt="" coords="18,167,161,192"/>
 <area shape="rect" href="WorldScene_8hpp.html" title=" " alt="" coords="473,167,589,192"/>
 <area shape="rect" href="Settings_8hpp.html" title=" " alt="" coords="237,167,331,192"/>
-<area shape="rect" href="VulkanAPI_8hpp.html" title=" " alt="" coords="997,167,1105,192"/>
+<area shape="rect" href="VulkanAPI_8hpp.html" title=" " alt="" coords="1009,167,1117,192"/>
 <area shape="rect" title=" " alt="" coords="5,247,64,273"/>
 <area shape="rect" title=" " alt="" coords="319,247,411,273"/>
 <area shape="rect" title=" " alt="" coords="435,247,626,273"/>

diff --git a/VulkanAPI_8cpp.html b/VulkanAPI_8cpp.html
@@ -112,16 +112,18 @@ $(document).ready(function(){initNavTree('VulkanAPI_8cpp.html',''); initResizabl
 <code>#include &quot;<a class="el" href="logger_8hpp_source.html">logger.hpp</a>&quot;</code><br />
 <code>#include &lt;cstring&gt;</code><br />
 <code>#include &lt;set&gt;</code><br />
+<code>#include &lt;algorithm&gt;</code><br />
 </div><div class="textblock"><div class="dynheader">
 Include dependency graph for VulkanAPI.cpp:</div>
 <div class="dyncontent">
 <div class="center"><img src="VulkanAPI_8cpp__incl.png" border="0" usemap="#asrc_2app_2vulkan_2VulkanAPI_8cpp" alt=""/></div>
 <map name="asrc_2app_2vulkan_2VulkanAPI_8cpp" id="asrc_2app_2vulkan_2VulkanAPI_8cpp">
-<area shape="rect" title=" " alt="" coords="762,5,959,31"/>
+<area shape="rect" title=" " alt="" coords="810,5,1007,31"/>
 <area shape="rect" href="VulkanAPI_8hpp.html" title=" " alt="" coords="347,79,455,104"/>
 <area shape="rect" href="logger_8hpp.html" title=" " alt="" coords="772,79,853,104"/>
 <area shape="rect" title=" " alt="" coords="878,79,939,104"/>
 <area shape="rect" title=" " alt="" coords="963,79,1003,104"/>
+<area shape="rect" title=" " alt="" coords="1027,79,1102,104"/>
 <area shape="rect" title=" " alt="" coords="5,159,111,185"/>
 <area shape="rect" title=" " alt="" coords="135,152,291,192"/>
 <area shape="rect" title=" " alt="" coords="315,159,393,185"/>

diff --git a/WorldScene_8cpp.html b/WorldScene_8cpp.html
@@ -110,14 +110,16 @@ $(document).ready(function(){initNavTree('WorldScene_8cpp.html',''); initResizab
 <div class="contents">
 <div class="textblock"><code>#include &quot;<a class="el" href="WorldScene_8hpp_source.html">WorldScene.hpp</a>&quot;</code><br />
 <code>#include &quot;<a class="el" href="logger_8hpp_source.html">logger.hpp</a>&quot;</code><br />
+<code>#include &lt;algorithm&gt;</code><br />
 </div><div class="textblock"><div class="dynheader">
 Include dependency graph for WorldScene.cpp:</div>
 <div class="dyncontent">
 <div class="center"><img src="WorldScene_8cpp__incl.png" border="0" usemap="#asrc_2app_2scenes_2WorldScene_8cpp" alt=""/></div>
 <map name="asrc_2app_2scenes_2WorldScene_8cpp" id="asrc_2app_2scenes_2WorldScene_8cpp">
-<area shape="rect" title=" " alt="" coords="273,5,482,31"/>
+<area shape="rect" title=" " alt="" coords="381,5,590,31"/>
 <area shape="rect" href="WorldScene_8hpp.html" title=" " alt="" coords="427,79,543,104"/>
 <area shape="rect" href="logger_8hpp.html" title=" " alt="" coords="229,152,310,177"/>
+<area shape="rect" title=" " alt="" coords="568,79,643,104"/>
 <area shape="rect" href="define_8hpp.html" title=" " alt="" coords="335,152,415,177"/>
 <area shape="rect" title=" " alt="" coords="439,152,531,177"/>
 <area shape="rect" title=" " alt="" coords="555,152,746,177"/>
